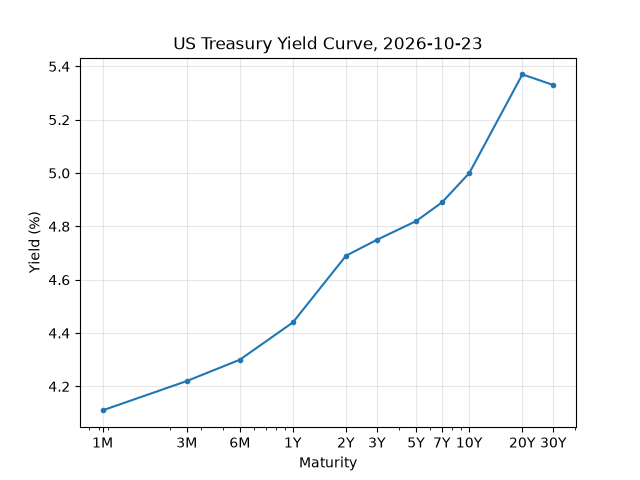
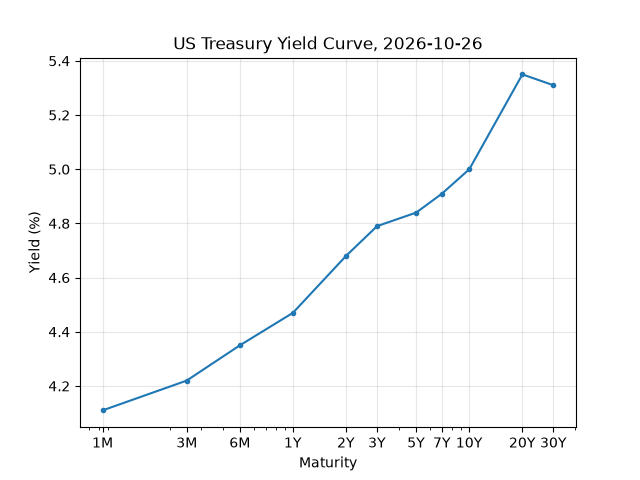
Moved my key to .env

diff --git a/yield-curve/yield-curve.py b/yield-curve/yield-curve.py
@@ -1,10 +1,9 @@
 import pandas as pd
 import requests
 from pathlib import Path
-
 from matplotlib import pyplot as plt
 
-key = Path("mykey.txt").read_text().strip()
+key = Path(".env").read_text().strip()
 
 def main():
     maturities = {
